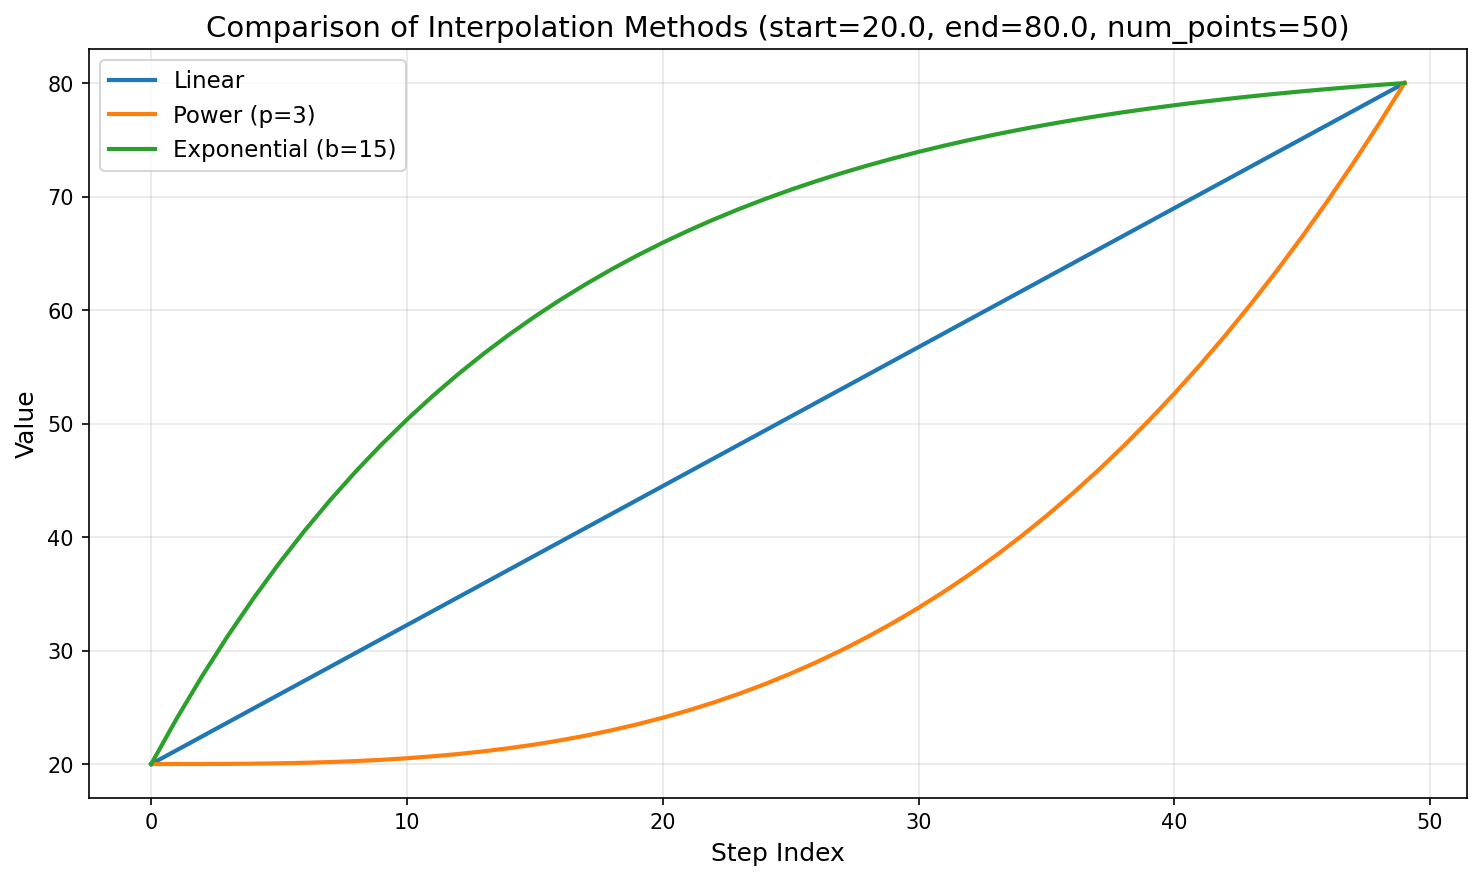
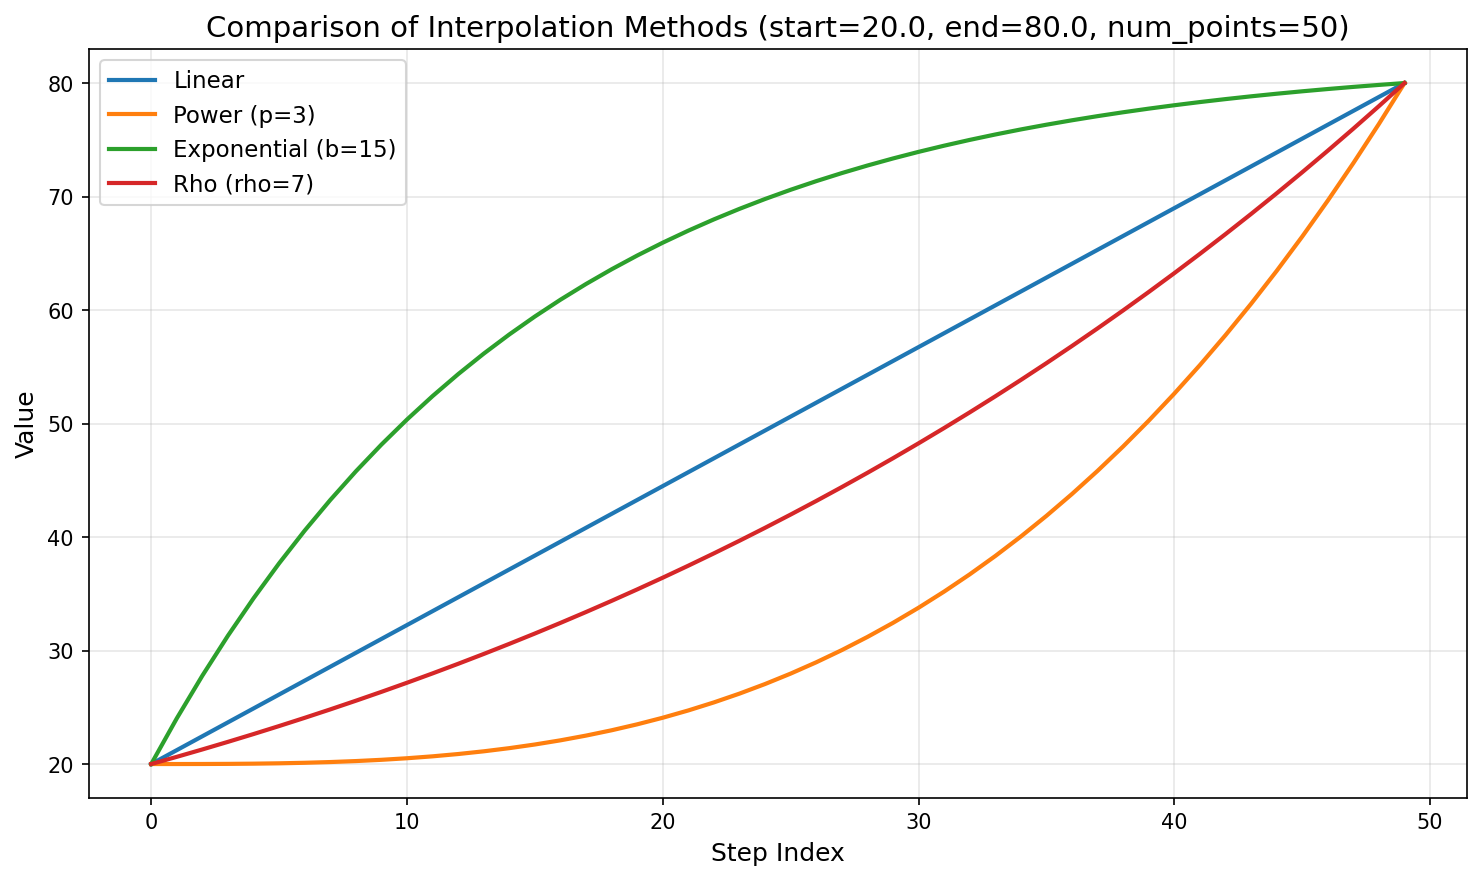
feat(example): convert rho plot to multi-parameter format
- Change example_rho() to example_rho_multiple_params() with multiple rho values
- Update README.md to reference rho_interpolation_multiple_params.png

diff --git a/example.py b/example.py
@@ -109,32 +109,39 @@ def example_exponential_multiple_params():
     plt.close()
 
 
-def example_rho():
-    """Example 4: Rho-based interpolation"""
+def example_rho_multiple_params():
+    """Example 4: Rho-based interpolation with multiple parameter values"""
     print("\n" + "=" * 60)
-    print("Example 4: Rho-based Interpolation")
+    print("Example 4: Rho-based Interpolation with Multiple Parameters")
     print("=" * 60)
     print("Generating plot...")
     
-    # Create an interpolator instance
+    # Create an interpolator instance with fixed start and end
     interp = Interpolator(start=0.002, end=80.0, num_points=180, dtype=torch.float64)
     
-    # Get rho interpolation
-    rho_values = interp.rho(rho=7, include_zero=False)
+    # Test different rho values (only positive)
+    rho_values = [1, 2, 3, 5, 7, 10]
     
-    # Plot using plotting module
-    output_path = os.path.join(OUTPUT_DIR, 'rho_interpolation.png')
-    plot_interpolation(
-        values=rho_values,
-        method="rho",
-        start=0.002,
-        end=80.0,
-        num_points=180,
-        output_path=output_path,
-        rho=7,
-        include_zero=False
-    )
+    # Plot
+    plt.figure(figsize=(10, 6))
+    
+    for rho in rho_values:
+        try:
+            rho_interp_values = interp.rho(rho=rho, include_zero=False)
+            plt.plot(rho_interp_values.numpy(), label=f'Rho (rho={rho})', linewidth=2)
+        except Exception as e:
+            print(f"  Note: Skipped rho={rho} due to error: {e}")
+    plt.xlabel('Step Index', fontsize=12)
+    plt.ylabel('Value', fontsize=12)
+    plt.title('Rho Interpolation with Different Parameters (start=0.002, end=80.0, num_points=180)', fontsize=14)
+    plt.legend(fontsize=10)
+    plt.grid(True, alpha=0.3)
+    
+    plt.tight_layout()
+    output_path = os.path.join(OUTPUT_DIR, 'rho_interpolation_multiple_params.png')
+    plt.savefig(output_path, dpi=150, bbox_inches='tight')
     print(f"Plot saved as '{output_path}'")
+    plt.close()
 
 
 def example_all_methods_ascending():
@@ -225,7 +232,7 @@ if __name__ == "__main__":
         example_linear()
         example_power_multiple_params()
         example_exponential_multiple_params()
-        example_rho()
+        example_rho_multiple_params()
         example_all_methods_ascending()
         example_all_methods_descending()
         
@@ -236,7 +243,7 @@ if __name__ == "__main__":
         print(f"  - {os.path.join(OUTPUT_DIR, 'linear_interpolation.png')}")
         print(f"  - {os.path.join(OUTPUT_DIR, 'power_interpolation_multiple_params.png')}")
         print(f"  - {os.path.join(OUTPUT_DIR, 'exponential_interpolation_multiple_params.png')}")
-        print(f"  - {os.path.join(OUTPUT_DIR, 'rho_interpolation.png')}")
+        print(f"  - {os.path.join(OUTPUT_DIR, 'rho_interpolation_multiple_params.png')}")
         print(f"  - {os.path.join(OUTPUT_DIR, 'all_methods_comparison_ascending.png')}")
         print(f"  - {os.path.join(OUTPUT_DIR, 'all_methods_comparison_descending.png')}")
         print("=" * 60)

diff --git a/README.md b/README.md
@@ -248,7 +248,7 @@ If `include_zero=True`, then $t_{n-1} = 0$ (the last point is replaced with zero
 - Score-based generative models
 - Advanced scheduling strategies
 
-![Rho Interpolation](docs/rho_interpolation.png)
+![Rho Interpolation](docs/rho_interpolation_multiple_params.png)
 
 ## Comparison
 
@@ -306,7 +306,7 @@ flexible-interpolator/
 │   ├── linear_interpolation.png
 │   ├── power_interpolation_multiple_params.png
 │   ├── exponential_interpolation_multiple_params.png
-│   ├── rho_interpolation.png
+│   ├── rho_interpolation_multiple_params.png
 │   ├── all_methods_comparison_ascending.png
 │   └── all_methods_comparison_descending.png
 └── outputs/            # Generated output files (gitignored)
